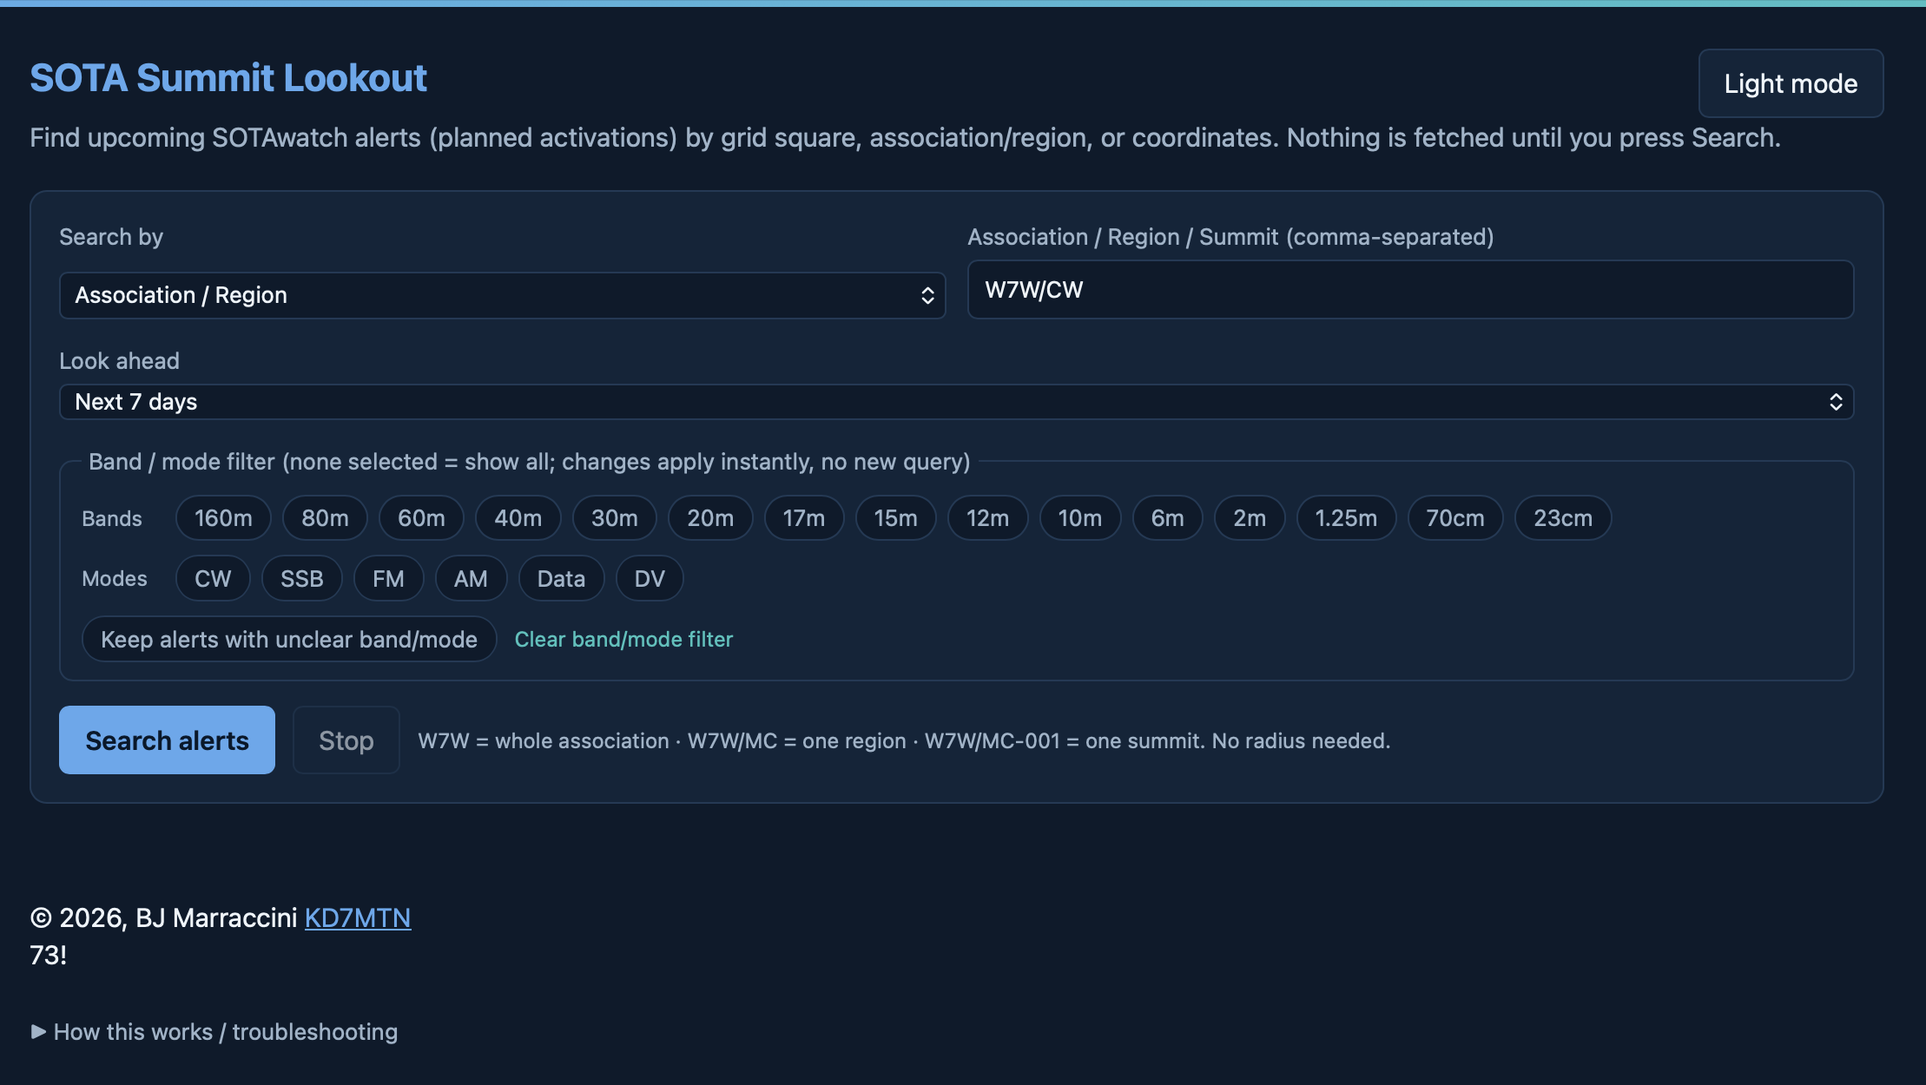
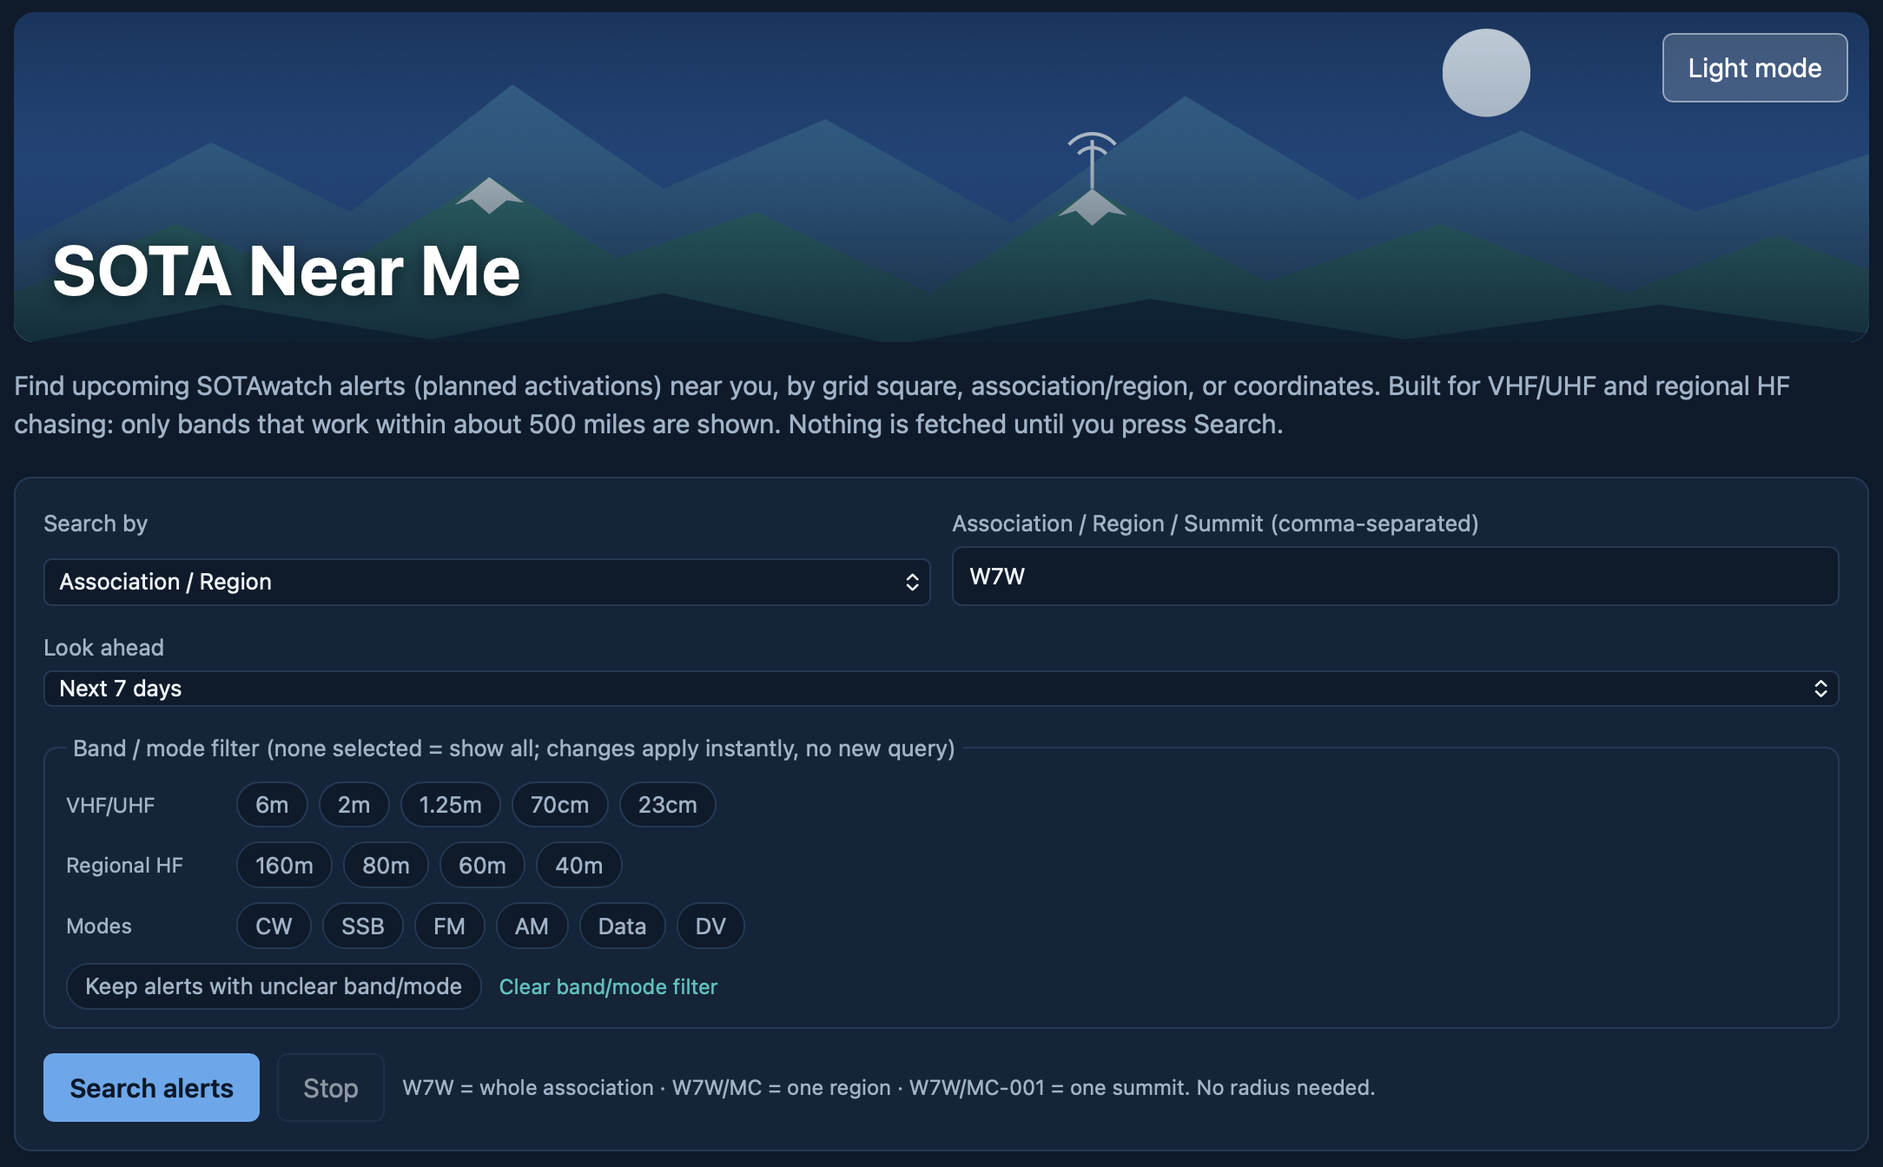
v0.3 update
narrowed to local use, default map view

diff --git a/docs/js/sota-alerts.js b/docs/js/sota-alerts.js
@@ -220,6 +220,13 @@
   ];
   const BAND_NAMES = BANDS.map(b => b[0]);
   const HF = ["160m","80m","60m","40m","30m","20m","17m","15m","12m","10m"];
+  // Bands that reliably work within ~500 miles. This app is for local/regional chasing,
+  // so alerts posted ONLY on other bands (30m and up) are left out of the results.
+  //  - VHF/UHF: line of sight, extended by summit height
+  //  - HF 160/80/60/40m: ground wave and near-vertical skywave (NVIS), roughly 0-500 mi
+  const LOCAL_VU = ["6m", "2m", "1.25m", "70cm", "23cm"];
+  const LOCAL_HF = ["160m", "80m", "60m", "40m"];
+  const LOCAL_BANDS = new Set([...LOCAL_VU, ...LOCAL_HF]);
   const MODES = ["CW", "SSB", "FM", "AM", "Data", "DV"];
   const MODE_WORDS = {
     cw: "CW", ssb: "SSB", usb: "SSB", lsb: "SSB", phone: "SSB", fm: "FM", am: "AM",
@@ -272,7 +279,8 @@
       el.appendChild(lab);
     }
   }
-  buildToggles("bandToggles", BAND_NAMES, "bandCb");
+  buildToggles("bandTogglesV", LOCAL_VU, "bandCb");
+  buildToggles("bandTogglesH", LOCAL_HF, "bandCb");
   buildToggles("modeToggles", MODES, "modeCb");
 
   function bmState() {
@@ -293,6 +301,15 @@
       else if (!st.unclear) return false;
     }
     return true;
+  }
+  // True if the alert lists at least one regional band, or no recognisable band at all
+  // (unclear alerts are kept so nothing is silently missed).
+  function isRegional(r) {
+    const p = parseFreq(r.freq);
+    return p.bands.size === 0 || [...p.bands].some(b => LOCAL_BANDS.has(b));
+  }
+  function longHaulNote(n) {
+    return n ? ` ${n} alert(s) in this area were posted only for long-distance HF bands (30m and up) and aren't shown.` : "";
   }
   function tagsHTML(freq) {
     const p = parseFreq(freq);
@@ -446,6 +463,7 @@
     else if (ls.gridBox) L.push(`Area: inside grid ${ls.label}`);
     else if (ls.label) L.push(`Area: ${ls.radiusIn} ${ls.units} around ${ls.label}`);
     L.push(`Window: ${ls.aheadH >= 8760 ? "all posted alerts" : "next " + ls.aheadH + " h"}`);
+    L.push(`Bands: regional only (${[...LOCAL_VU, ...LOCAL_HF].join(", ")})`);
     if (st.bands.length || st.modes.length) L.push(`Band/mode filter: ${[...st.bands, ...st.modes].join(", ")}${st.unclear ? " (+ unclear)" : ""}`);
     L.push("");
     const vr = visibleRows();
@@ -583,8 +601,8 @@
       else map.setView([46.6, -120.5], 6);
     }, 0);
   }
-  $("mapBtn").addEventListener("click", async () => {
-    if (!$("mapWrap").hidden) { $("mapWrap").hidden = true; $("mapBtn").textContent = "Show on map"; return; }
+  // The map opens automatically after every search; the button hides or re-shows it.
+  async function showMap() {
     $("mapBtn").disabled = true;
     try {
       await loadLeaflet();
@@ -592,10 +610,16 @@
       $("mapBtn").textContent = "Hide map";
       drawMap();
     } catch (e) {
+      $("mapWrap").hidden = true;
+      $("mapBtn").textContent = "Show on map";
       setStatus(e.message + ".", "err");
     } finally {
       $("mapBtn").disabled = false;
     }
+  }
+  $("mapBtn").addEventListener("click", () => {
+    if (!$("mapWrap").hidden) { $("mapWrap").hidden = true; $("mapBtn").textContent = "Show on map"; return; }
+    showMap();
   });
 
   // ---------- Prefs ----------
@@ -692,7 +716,7 @@
     const p = {}; for (const k of PREF_FIELDS) p[k] = $(k).value; saveJSON(PREFS_KEY, p);
 
     lastSearch = { mode, label, center, gridBox, rKm, radiusIn, units, aheadH, at: new Date() };
-    $("toolbar").hidden = true; $("mapWrap").hidden = true; $("mapBtn").textContent = "Show on map";
+    $("toolbar").hidden = true; $("mapWrap").hidden = true; $("mapBtn").textContent = "Hide map";
     abortCtl = new AbortController();
     const signal = abortCtl.signal;
     $("go").disabled = true; $("stop").disabled = false;
@@ -733,13 +757,16 @@
           const c = coords[a.ref];
           rows.push({ ...a, summitName: summitLabel(c), grid: c ? latLonToGrid(c.lat, c.lon) : "", lat: c?.lat, lon: c?.lon });
         }
+        const longHaul = rows.filter(r => !isRegional(r)).length;
+        rows = rows.filter(isRegional);
         $("results").hidden = false; $("toolbar").hidden = false;
         render(units);
         $("summary").innerHTML = [
           `Area: ${label}`,
           `Showing ${rows.length} result${rows.length === 1 ? "" : "s"} out of ${totalInWindow} worldwide`
         ].map(c => `<span class="chip">${esc(c)}</span>`).join("");
-        setStatus(`Done at ${new Date().toLocaleTimeString()}.`);
+        setStatus(`Done at ${new Date().toLocaleTimeString()}.` + longHaulNote(longHaul));
+        showMap();
         return;
       }
 
@@ -800,9 +827,12 @@
         }
       }
 
+      const placed = [...wild, ...unlocated];
+      const longHaul = rows.filter(r => !isRegional(r)).length + placed.filter(r => !isRegional(r)).length;
+      rows = rows.filter(isRegional);
       $("results").hidden = false; $("toolbar").hidden = false;
       render(units);
-      renderWild([...wild, ...unlocated].sort((a, b) => a.when - b.when));
+      renderWild(placed.filter(isRegional).sort((a, b) => a.when - b.when));
 
       const chips = [
         gridBox ? `Inside grid ${label}` : `Center: ${label}`,
@@ -816,7 +846,9 @@
       if (!assocSet) { msg += " Association bounds were unavailable, so all alerted summits were checked."; kind = "warn"; }
       if (capped) { msg += ` Only the first ${NO_FILTER_CAP} summits were checked; add an association filter for complete results.`; kind = "warn"; }
       if (unlocated.length) { msg += ` ${unlocated.length} alert(s) couldn't be located and are listed below.`; }
+      msg += longHaulNote(longHaul);
       setStatus(msg, kind);
+      showMap();
     } catch (e) {
       if (e.name === "AbortError") setStatus("Stopped.", "warn");
       else if (e.isNet || e instanceof TypeError) setStatus("Couldn't reach the SOTA API (network or CORS block). If you opened this as a local file, try serving it from a web server or GitHub Pages.\n" + e.message, "err");

diff --git a/docs/index.html b/docs/index.html
@@ -7,17 +7,18 @@
 <!-- Security: only this site's own scripts/styles run; network access is limited to the SOTA APIs and OpenTopoMap tiles. -->
 <meta http-equiv="Content-Security-Policy" content="default-src 'none'; script-src 'self'; style-src 'self'; img-src 'self' data: https://a.tile.opentopomap.org https://b.tile.opentopomap.org https://c.tile.opentopomap.org; connect-src https://api-db2.sota.org.uk https://api2.sota.org.uk https://api.sotl.as; base-uri 'none'; form-action 'none'; object-src 'none'">
 <meta name="referrer" content="strict-origin-when-cross-origin">
-<title>Summit Lookout for SOTA</title>
+<title>SOTA Near Me</title>
 <link rel="stylesheet" href="css/styles.css">
-<link rel="icon" type="image/x-icon" href="/css/favicon.ico">
+<link rel="icon" type="image/png" href="css/favicon.png">
 </head>
 <body>
 <main>
-  <div class="head">
-    <h1>Summit Lookout for SOTA</h1>
-    <p><button type="button" id="themeBtn" aria-label="Toggle dark mode">Dark mode</button></p>
-  </div>
-  <p class="sub">Find upcoming SOTAwatch alerts (planned activations) by grid square, association/region, or coordinates. Nothing is fetched until you press Search.</p>
+  <!-- Header banner: the image is set in css/styles.css (.hero). Swap images/header.svg for your own photo. -->
+  <header class="hero">
+    <button type="button" id="themeBtn" aria-label="Toggle dark mode">Dark mode</button>
+    <h1>SOTA Near Me</h1>
+  </header>
+  <p class="sub">Find upcoming SOTAwatch alerts (planned activations) near you, by grid square, association/region, or coordinates. Built for VHF/UHF and regional HF chasing: only bands that work within about 500 miles are shown. Nothing is fetched until you press Search.</p>
 
   <form id="f" autocomplete="off">
     <div class="row">
@@ -70,7 +71,8 @@
     </div>
     <fieldset>
       <legend>Band / mode filter (none selected = show all; changes apply instantly, no new query)</legend>
-      <div class="toggles" id="bandToggles"><span class="lbl">Bands</span></div>
+      <div class="toggles" id="bandTogglesV"><span class="lbl">VHF/UHF</span></div>
+      <div class="toggles" id="bandTogglesH"><span class="lbl">Regional HF</span></div>
       <div class="toggles" id="modeToggles"><span class="lbl">Modes</span></div>
       <div class="toggles">
         <label class="tog"><input type="checkbox" id="incUnclear" checked><span>Keep alerts with unclear band/mode</span></label>
@@ -89,7 +91,7 @@
   <div class="summary" id="summary"></div>
   <p id="filterNote" hidden></p>
   <div class="toolbar" id="toolbar" hidden>
-    <button type="button" id="mapBtn">Show on map</button>
+    <button type="button" id="mapBtn">Hide map</button>
     <button type="button" id="exportBtn">Export .txt</button>
   </div>
   <div id="mapWrap" hidden>
@@ -117,7 +119,7 @@
     <p class="muted">Wildcard refs (e.g. W7W/LC-XXX) or summits the API couldn't locate. They may or may not be in range.</p>
     <div class="tablewrap"><table><tbody id="wild"></tbody></table></div>
   </div>
-  <div>© 2026, B.J. Marraccini / <a href="https://www.qrz.com/db/KD7MTN" target=_blank>KD7MTN</a><br>
+  <div class="footer">© 2026, B.J. Marraccini / <a href="https://www.qrz.com/db/KD7MTN" target="_blank" rel="noopener noreferrer">KD7MTN</a><br>
     73!
   </div>
 
@@ -125,6 +127,7 @@
     <summary>How this works / troubleshooting</summary>
     <p><b>Association / Region mode</b> matches alerts by reference only (no coordinates needed): W7W, W7W/MC, or W7W/MC-001. Wildcard alerts in that region (e.g. W7W/MC-XXX) are included.</p>
     <p><b>Grid and Lat/Lon modes:</b> 1. Fetches all current alerts from the SOTA API. 2. Fetches the association list and keeps only associations whose bounding box overlaps your search circle (or uses the associations you typed). 3. Looks up coordinates for each alerted summit in those associations (cached in this browser afterwards). 4. Keeps summits inside your radius and within the look-ahead window.</p>
+    <p><b>Bands shown:</b> this app is for local and regional contacts, so it only lists alerts on bands that reliably work within about 500 miles: VHF/UHF (6m, 2m, 1.25m, 70cm, 23cm) and the regional HF bands (160m, 80m, 60m, 40m, which reach that range by ground wave and near-vertical skywave). Alerts posted only for 30m and higher HF bands, which usually skip past nearby stations, are left out and counted in the note above the results. Alerts with no clear band are kept, so you don't miss them.</p>
     <p>If you see a network/CORS error, open the page from a web server (e.g. GitHub Pages or <code>python3 -m http.server</code>) rather than as a local file, or try another browser. The SOTA API does not publish a formal spec; endpoints tried are listed in the status line on failure.</p>
     <p><button type="button" id="clearCache">Clear cached summit coordinates</button></p>
   </details>

diff --git a/docs/css/styles.css b/docs/css/styles.css
@@ -25,9 +25,48 @@
   * { box-sizing: border-box; }
   body { margin: 0; font: 15px/1.45 system-ui, -apple-system, "Segoe UI", Roboto, sans-serif; background: var(--bg); color: var(--ink); }
   main { max-width: 1100px; margin: 0 auto; padding: 24px 16px 48px; }
-  h1 { font-size: 22px; margin: 0 0 4px; color: var(--accent); }
 body::before { content: ""; display: block; height: 4px; background: var(--head-grad); }
-  .head { display: flex; justify-content: space-between; align-items: flex-start; gap: 12px; }
+
+/* ---------- Header banner ----------
+   To use your own image: put it in docs/images/ and change the url() below.
+   Recommended: ~1600x400 px landscape, JPG or WebP, under ~300 KB.
+   The dark gradient layer on top keeps the title readable on any photo. */
+.hero {
+  position: relative;
+  display: flex; align-items: flex-end;
+  min-height: 190px;
+  margin: 0 0 14px;
+  padding: 20px 22px;
+  border-radius: 12px;
+  overflow: hidden;
+  background-color: #0b2a4a;                      /* shows while the image loads */
+  background-image:
+    linear-gradient(to top, rgba(6, 24, 43, 0.78) 0%, rgba(6, 24, 43, 0.25) 55%, rgba(6, 24, 43, 0.05) 100%),
+    url("../images/header.svg");
+  background-size: cover;
+  background-position: center;
+}
+.hero h1 {
+  margin: 0;
+  font-size: clamp(26px, 4.2vw, 40px);
+  font-weight: 700;
+  letter-spacing: 0.01em;
+  line-height: 1.1;
+  color: #ffffff;
+  text-shadow: 0 2px 10px rgba(0, 0, 0, 0.55);
+}
+.hero #themeBtn {
+  position: absolute; top: 12px; right: 12px;
+  background: rgba(255, 255, 255, 0.16);
+  color: #ffffff;
+  border: 1px solid rgba(255, 255, 255, 0.45);
+  backdrop-filter: blur(4px);
+}
+.hero #themeBtn:hover { background: rgba(255, 255, 255, 0.28); border-color: #ffffff; }
+@media (max-width: 600px) {
+  .hero { min-height: 150px; padding: 60px 16px 16px; }
+}
+.footer { margin: 20px 0 0; font-size: 13px; color: var(--muted); }
   .toolbar { display: flex; flex-wrap: wrap; gap: 8px; margin: 0 0 10px; }
   #mapWrap { margin: 0 0 14px; border: 1px solid var(--line); border-radius: 10px; overflow: hidden; background: var(--panel); }
   #map { height: 480px; width: 100%; }
@@ -53,7 +92,7 @@ body::before { content: ""; display: block; height: 4px; background: var(--head-
   fieldset { border: 1px solid var(--line); border-radius: 8px; padding: 10px 12px; margin: 0; display: grid; gap: 8px; }
   legend { font-size: 13px; color: var(--muted); padding: 0 4px; }
   .toggles { display: flex; flex-wrap: wrap; gap: 6px; align-items: center; }
-  .toggles .lbl { font-size: 12px; color: var(--muted); width: 48px; }
+  .toggles .lbl { font-size: 12px; color: var(--muted); width: 92px; white-space: nowrap; }
   .tog { position: relative; }
   .tog input { position: absolute; opacity: 0; pointer-events: none; }
   .tog span { display: inline-block; font-size: 13px; padding: 3px 10px; border: 1px solid var(--line); border-radius: 999px; cursor: pointer; background: var(--bg); }
@@ -88,3 +127,4 @@ body::before { content: ""; display: block; height: 4px; background: var(--head-
 button:not(.primary):not(.linkbtn):hover { border-color: var(--teal); }
 th.sorted-asc, th.sorted-desc { color: var(--teal); }
 .leaflet-popup-content .pmeta { opacity: .7; }
+@media (max-width: 600px) { .toggles .lbl { width: 100%; } }

diff --git a/README.md b/README.md
@@ -1,12 +1,12 @@
 # Summit Lookout for SOTA
 
-**Find upcoming SOTA activations by grid square, region, or location.**
+**Find upcoming SOTA activations near you, built for VHF/UHF and regional HF chasers.**
 
-Summit Lookout is a small, static web app for [Summits on the Air (SOTA)](https://www.sota.org.uk/) chasers. It searches [SOTAwatch](https://sotawatch.sota.org.uk/) **alerts** (planned activations) for a grid square, an association or region, or a point on the map. You can filter the results by band and mode, view them on a topographic map, or export them to a text file.
+Summit Lookout is a small, static web app for [Summits on the Air (SOTA)](https://www.sota.org.uk/) chasers. Its main purpose is to tell VHF/UHF operators when an activator has set an alert near them. It searches [SOTAwatch](https://sotawatch.sota.org.uk/) **alerts** (planned activations) for a grid square, an association or region, or a point on the map, and shows only alerts on bands that work within about 500 miles. Results appear on a topographic map and in a table, can be filtered by band and mode, and can be exported to a text file.
 
 It runs entirely in your browser. There's no server, no account, no API key, and no tracking.
 
-**Live site:** `https://marracci.github.io/sota-near-me/`
+**Live site:** https://marracci.github.io/sota-near-me/
 
 ![Summit Lookout screenshot](docs/screenshot.png)
 
@@ -25,11 +25,12 @@ Alert times, frequencies and locations are whatever activators posted. Always co
   - **Association / Region / Summit:** `W7W` (whole association), `W7W/MC` (one region), or `W7W/MC-001` (one summit). Separate several with commas.
   - **Latitude / Longitude:** a point and a radius, with an optional "Use my location" button.
 - **Look-ahead window:** the next 24 hours, 3 days, 7 days, 30 days, or every posted alert.
-- **Band and mode filters:** 160m–23cm; CW, SSB, FM, AM, Data and DV. Filters apply instantly and don't re-query the API.
-- **Map view:** pins on [OpenTopoMap](https://opentopomap.org/) tiles via [Leaflet](https://leafletjs.com/), with the search radius or grid outline drawn on the map. Several alerts on the same summit share one numbered pin.
+- **Regional bands only:** VHF/UHF (6m, 2m, 1.25m, 70cm, 23cm) and regional HF (160m, 80m, 60m, 40m). Alerts posted only for 30m and higher HF bands are left out. See [Which bands are shown](#which-bands-are-shown).
+- **Band and mode filters:** narrow to specific bands, or to CW, SSB, FM, AM, Data and DV. Filters apply instantly and don't re-query the API.
+- **Map view, shown with every search:** pins on [OpenTopoMap](https://opentopomap.org/) tiles via [Leaflet](https://leafletjs.com/), with the search radius or grid outline drawn on the map. Several alerts on the same summit share one numbered pin. The map opens automatically, and **Hide map** tucks it away.
 - **Export:** saves the current, filtered results to a plain `.txt` list.
 - **Distance and bearing** from your search point to each summit, in miles or kilometres.
-- **Light and dark themes**, remembered between visits.
+- **Light and dark themes:** dark by default; your choice is remembered between visits.
 - **Wildcard alerts** (e.g. `W7W/MC-XXX`) are listed separately rather than dropped.
 
 ![Summit Lookout Map View](docs/screenshot2.png)
@@ -41,8 +42,24 @@ Nothing is fetched until you press **Search alerts**. Then the app:
 1. Downloads the current alert list from the SOTA API.
 2. In region mode, matches alerts by reference. No coordinates are needed.
 3. In grid and lat/lon modes, narrows the list to associations whose bounding box overlaps your search area, looks up coordinates for each alerted summit, and keeps the ones inside your radius or grid.
-4. Displays list of matched alerts in a table. These results can be viewed in a map, and exported to a .txt file
-5. Caches summit coordinates in your browser, so later searches make fewer API calls.
+4. Drops alerts posted only for long-distance HF bands, and says in the status line how many were left out.
+5. Shows the matched alerts on the map and in a table. Results can be exported to a `.txt` file.
+6. Caches summit coordinates in your browser, so later searches make fewer API calls.
+
+### Which bands are shown
+
+Summit Lookout is for local and regional contacts, so it only lists alerts on bands that reliably work within about 500 miles:
+
+| Group | Bands | Why |
+|---|---|---|
+| VHF/UHF | 6m, 2m, 1.25m, 70cm, 23cm | Line of sight, extended by summit height |
+| Regional HF | 160m, 80m, 60m, 40m | Ground wave and near-vertical skywave (NVIS), roughly 0–500 miles |
+
+- An alert is kept if it lists **at least one** of these bands. `14.285-ssb, 146.52-fm` stays; `14.062-cw` alone does not.
+- Alerts with no recognisable band are kept, so nothing is silently missed.
+- The status line reports how many alerts in your area were left out.
+
+30m and the higher HF bands usually skip past nearby stations, so they're excluded. 30m is a borderline case that can cover 300–600 miles in daytime. To include it, add `"30m"` to `LOCAL_HF` in `docs/js/sota-alerts.js`.
 
 ### Band and mode detection
 
@@ -53,7 +70,7 @@ Band and mode are matched independently. An alert for `7.032-cw, 146.52-fm` will
 ## Using it locally
 
 The app is plain HTML, CSS and JavaScript with no build step.<br>
-You can simply clone locally, and open the `index.hmtl` to run. This is simplicity by design.
+You can simply clone it locally and open `docs/index.html` to run it. This is simplicity by design.
 
 Serving it over HTTP is more reliable, though, because some browsers restrict `file://` pages:
 
@@ -64,6 +81,15 @@ python3 -m http.server 8000
 # open http://localhost:8000
 ```
 
+
+## Customizing the header image
+
+The banner behind the title is set in `docs/css/styles.css`, in the `.hero` rule. To use your own photo:
+
+1. Add it to `docs/images/`. Aim for about 1600×400 px, JPG or WebP, under about 300 KB.
+2. Change `url("../images/header.svg")` in the `.hero` rule to point at your file.
+
+A dark gradient sits between the photo and the title, so the title stays readable on any image. Images served from the site itself are already allowed by the Content Security Policy.
 
 ## Security and privacy
 
@@ -82,6 +108,7 @@ Found a security issue? Please open a private security advisory on this repo rat
 - **The SOTA API has no published specification.** Endpoints or response fields may change without notice. The app tries fallback endpoints and reports errors in the status line.
 - **Wildcard alerts** (`-XXX`) can't be placed on the map or measured for distance.
 - **Band and mode detection** is heuristic. See [Band and mode detection](#band-and-mode-detection).
+- **The 500-mile band rule is a rule of thumb.** Propagation varies with time of day, season and solar conditions. A 40m signal may skip past you at night, and 6m can open well beyond 500 miles during sporadic-E.
 - **OpenTopoMap** is a free, volunteer-run service. Tiles may load slowly at busy times, and the maximum zoom is 17.
 
 ## Data sources and credits
